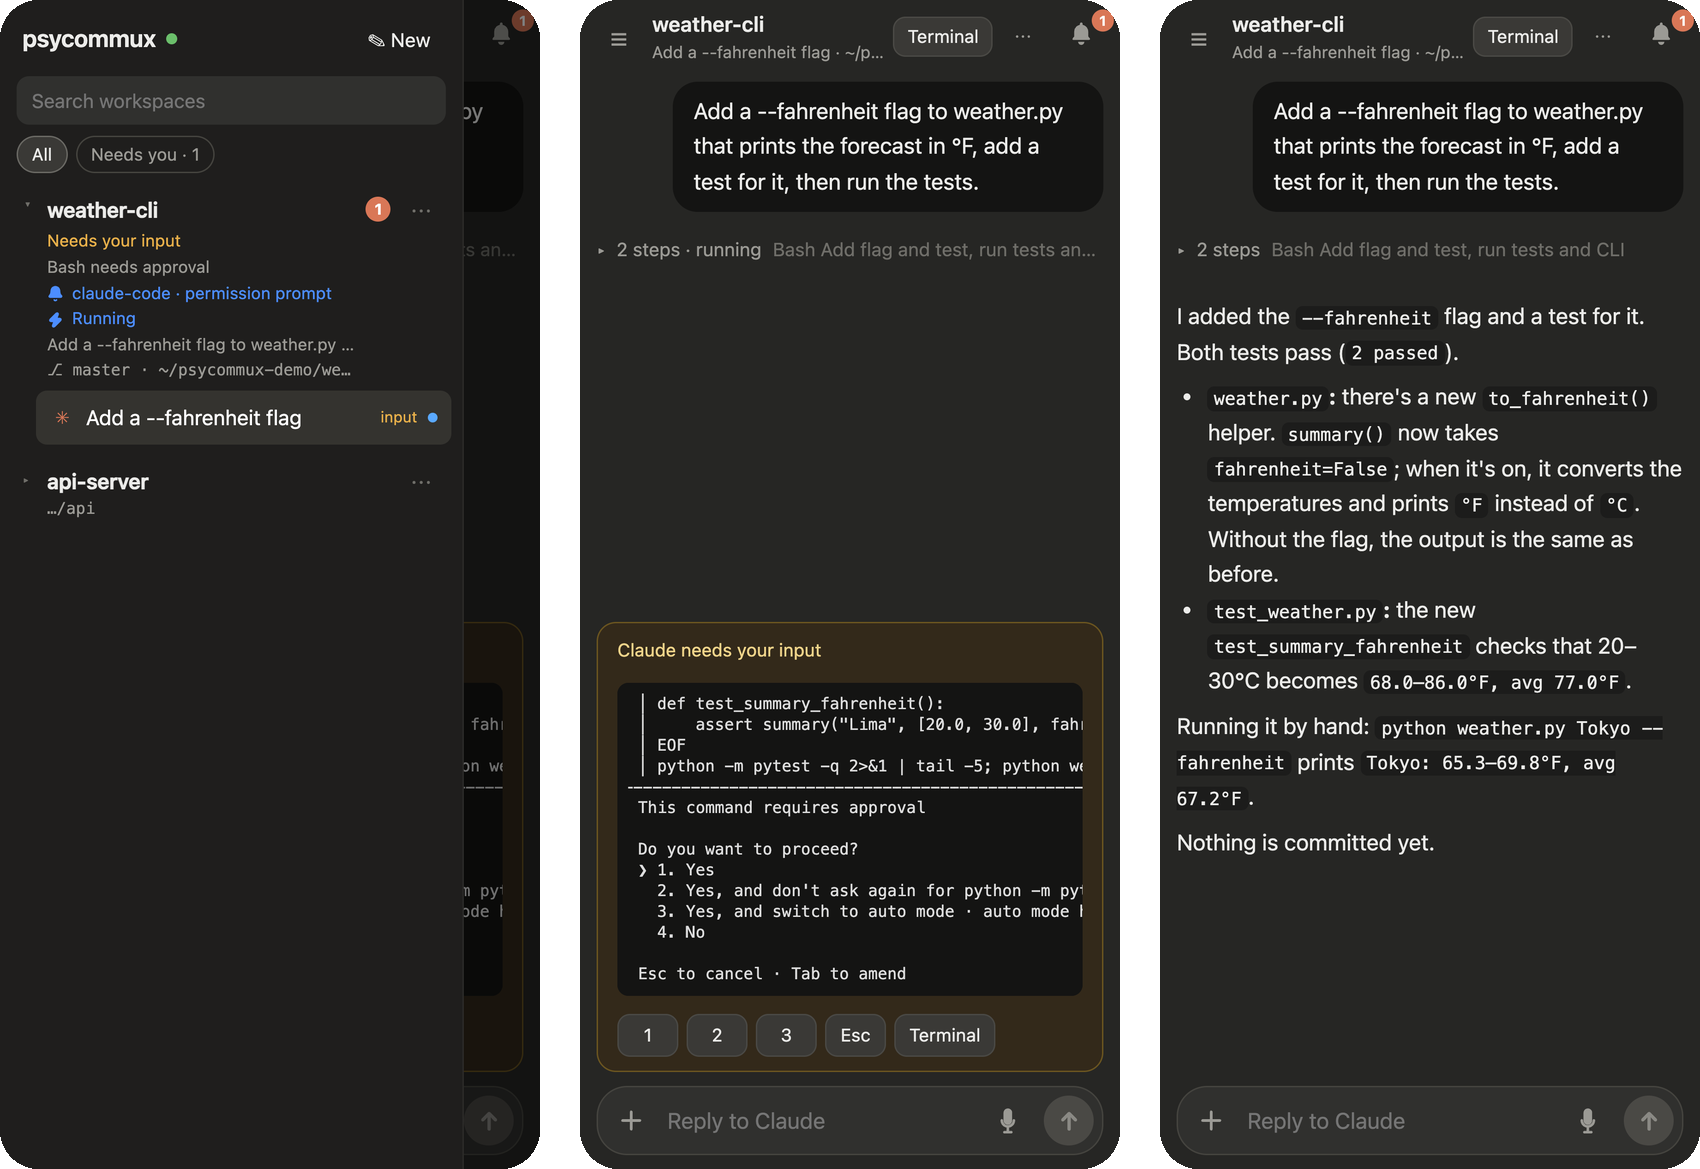
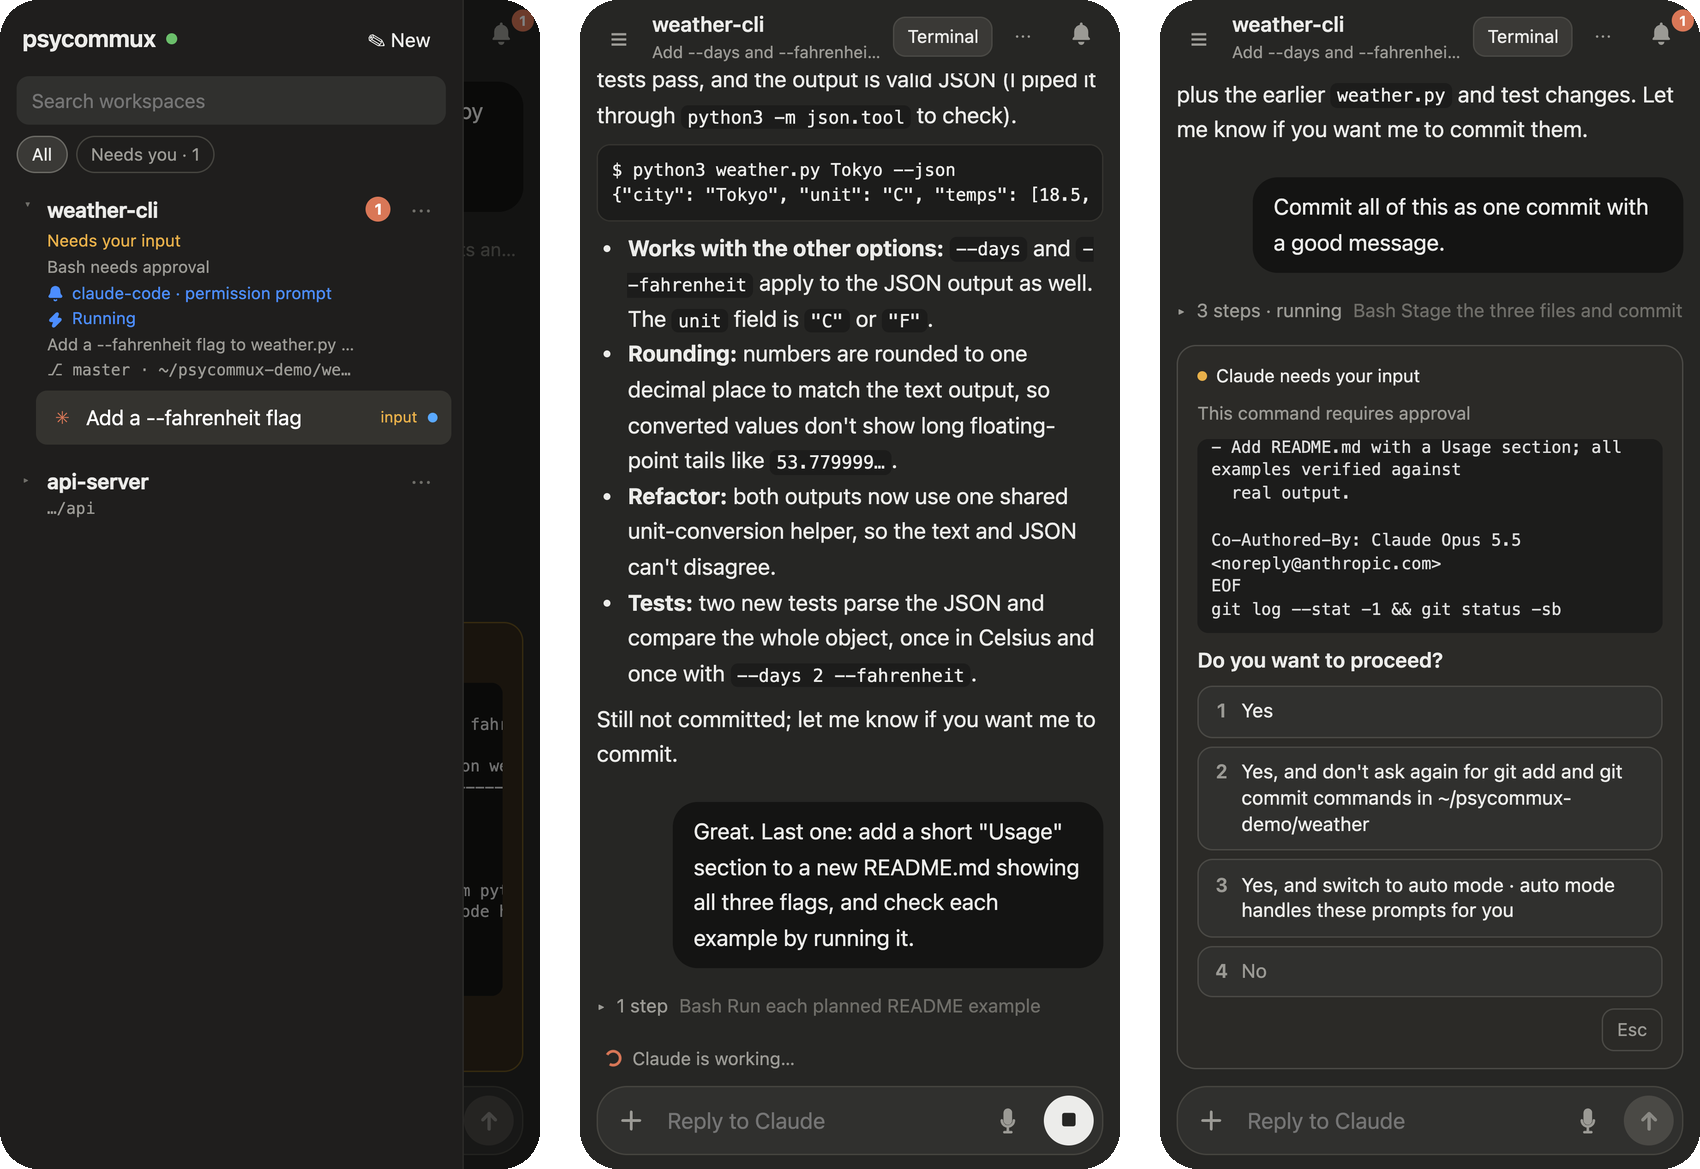
Show Claude's permission prompt as a question with labelled choices
The waiting card pasted the bottom of the terminal and offered bare 1, 2,
3 keys. Read the prompt off the screen instead: the title, the command or
edit it asks about (scrolled to its last lines), the question, and each
numbered choice as a button with its own words. Older boxed prompts parse
too; a screen that does not end in a numbered menu still shows as before.

diff --git a/static/app.js b/static/app.js
@@ -2124,19 +2124,9 @@ function setChatState(chat, value) {
     st.append(el("span", { className: "spin" }), el("span", { textContent: "Claude is working…" }), stop);
   } else if (value === "needs_input") {
     // Permission prompts are drawn in the terminal and reach the transcript only
-    // once answered, so show the bottom of the screen with number keys.
-    const keys = el("div", { className: "peek-keys" });
-    for (const n of ["1", "2", "3"]) {
-      const b = el("button", { textContent: n });
-      b.onclick = () => chat.surfaceId && api("/api/send", { surface_id: chat.surfaceId, text: n, enter: false }).then(() => refreshPeek(chat));
-      keys.append(b);
-    }
-    const escB = el("button", { textContent: "Esc" });
-    escB.onclick = () => chat.surfaceId && api("/api/key", { surface_id: chat.surfaceId, key: "escape" }).then(() => refreshPeek(chat));
-    const term = el("button", { textContent: "Terminal" });
-    term.onclick = () => { state.viewBySurface[chat.surfaceId] = "terminal"; save("cmuxViews", state.viewBySurface); renderMain(); };
-    keys.append(escB, term);
-    st.append(el("div", { className: "peek-head", textContent: "Claude needs your input" }), el("pre", { className: "peek", textContent: chat.peek }), keys);
+    // once answered, so read them off the screen.
+    st.append(el("div", { className: "qh", textContent: "Claude needs your input" }));
+    renderPrompt(chat);
     refreshPeek(chat);
   } else if (value === "ended") {
     // `claude --resume <id>` in the same terminal, from the session's folder.
@@ -2161,11 +2151,95 @@ async function refreshPeek(chat) {
   if (!chat.surfaceId) return;
   try {
     const r = await api("/api/peek", { surface_id: chat.surfaceId });
-    const lines = (r.text || "").replace(/\s+$/, "").split("\n");
-    chat.peek = lines.slice(-14).join("\n");
-    const pre = chat.status.querySelector(".peek");
-    if (pre) pre.textContent = chat.peek;
+    const text = (r.text || "").replace(/\s+$/, "");
+    if (text === chat.peek) return;
+    chat.peek = text;
+    if (chat.state === "needs_input") renderPrompt(chat);
   } catch (e) { /* keep the last one */ }
+}
+
+// Claude Code's terminal prompt, e.g.
+//   │ python -m pytest -q          <- what it wants to run or change
+//   ╌╌╌╌╌╌╌╌╌╌╌╌╌╌╌╌╌╌╌╌╌╌╌╌╌╌╌╌╌
+//    This command requires approval   <- title
+//    Do you want to proceed?          <- question
+//    ❯ 1. Yes
+//      2. Yes, and don't ask again for …
+//    Esc to cancel · Tab to amend
+// Returns null when the screen does not end in a numbered menu.
+function parsePrompt(text) {
+  const raw = text.split("\n").map((l) => l.replace(/\s+$/, ""));
+  // A │ bar marks a command drawn as a block; older versions also draw the whole
+  // prompt in a box, whose sides go and whose top and bottom act as rules.
+  const barred = raw.map((l) => /^\s*│/.test(l));
+  const lines = raw.map((l) => l.replace(/^\s*│ ?/, "").replace(/\s*│$/, ""));
+  const RULE = /^\s*(?:[─━╌┄-]{8,}|[╭╰].*)$/;
+  const OPT = /^\s*(?:[❯›>]\s*)?(\d+)\.\s+(.*)$/;
+  let last = -1;
+  for (let i = lines.length - 1; i >= 0; i--) if (OPT.test(lines[i])) { last = i; break; }
+  if (last < 0) return null;
+  let first = last;
+  while (first > 0 && (OPT.test(lines[first - 1]) || (/^\s{3,}\S/.test(lines[first - 1]) && !RULE.test(lines[first - 1])))) first--;
+  while (first <= last && !OPT.test(lines[first])) first++;
+  const options = [];
+  for (let i = first; i <= last; i++) {
+    const m = lines[i].match(OPT);
+    if (m) options.push({ key: m[1], label: m[2].trim() });
+    else if (options.length) options[options.length - 1].label += " " + lines[i].trim();
+  }
+  if (options.length < 2) return null;
+  // Text between the menu and the rule above it: the title and the question.
+  const head = [];
+  let i = first - 1;
+  for (; i >= 0 && !RULE.test(lines[i]); i--) if (lines[i].trim()) head.unshift(lines[i]);
+  if (!head.length) return null;
+  const question = head.pop().trim();
+  // Above the rule: what it wants to do, a │ block taken whole, else back to a blank line.
+  let context = [];
+  const block = i > 0 && barred[i - 1];
+  for (let j = i - 1; j >= 0 && context.length < 40 && !RULE.test(lines[j]); j--) {
+    if (block ? !barred[j] : context.length && !lines[j].trim()) break;
+    if (!context.length && !lines[j].trim()) continue;
+    context.unshift(lines[j]);
+  }
+  // In a box the rule is its top, so the command sits between the title and the question.
+  if (!context.length && head.length > 1) context = head.splice(1);
+  while (context.length && !context[0].trim()) context.shift();
+  const indent = Math.min(...context.filter((l) => l.trim()).map((l) => l.match(/^ */)[0].length));
+  return { title: head.map((l) => l.trim()).join(" "), question, options, context: context.map((l) => l.slice(indent)).join("\n") };
+}
+
+function renderPrompt(chat) {
+  const st = chat.status;
+  st.querySelectorAll(":scope > :not(.qh)").forEach((n) => n.remove());
+  const send = (text) => chat.surfaceId && api("/api/send", { surface_id: chat.surfaceId, text, enter: false }).then(() => refreshPeek(chat)).catch(failed);
+  const esc = () => chat.surfaceId && api("/api/key", { surface_id: chat.surfaceId, key: "escape" }).then(() => refreshPeek(chat)).catch(failed);
+  const term = () => { state.viewBySurface[chat.surfaceId] = "terminal"; save("cmuxViews", state.viewBySurface); renderMain(); };
+  const p = parsePrompt(chat.peek || "");
+  const foot = el("div", { className: "pfoot" }, el("button", { textContent: "Esc", title: "Cancel", onclick: esc }));
+  if (!p) {
+    foot.append(el("button", { textContent: "Terminal", onclick: term }));
+    // Unknown screen: show its bottom and the usual keys.
+    const keys = ["1", "2", "3"].map((n) => el("button", { textContent: n, onclick: () => send(n) }));
+    foot.prepend(...keys);
+    st.append(el("pre", { className: "peek", textContent: (chat.peek || "").split("\n").slice(-14).join("\n") }), foot);
+    return;
+  }
+  if (p.title) st.append(el("div", { className: "ptitle", textContent: p.title }));
+  if (p.context) {
+    // The command's last lines are what runs; long ones scroll from there.
+    const ctx = el("pre", { className: "pctx", textContent: p.context });
+    st.append(ctx);
+    requestAnimationFrame(() => { ctx.scrollTop = ctx.scrollHeight; });
+  }
+  st.append(el("div", { className: "pq", textContent: p.question }));
+  const opts = el("div", { className: "qo" });
+  for (const o of p.options) {
+    const b = el("button", { onclick: () => send(o.key) }, el("b", { textContent: o.key }), el("span", { textContent: o.label }));
+    if (/^no\b/i.test(o.label)) b.className = "no";
+    opts.append(b);
+  }
+  st.append(opts, foot);
 }
 
 function answer(chat, index) {

diff --git a/static/app.css b/static/app.css
@@ -247,9 +247,20 @@ pre.diff .add { color: #7ee787; } pre.diff .del { color: #ff7b72; }
 .chat-status:empty { display: none; }
 .chat-status.working, .chat-status.ended, .chat-status.error { padding: 4px 18px; }
 .chat-status.working button { display: none; }
-.chat-status.needs_input { flex-direction: column; align-items: stretch; padding: 10px 14px; margin-bottom: 4px; background: #33291a; border: 1px solid #6b5520; border-radius: 14px; color: #f0d48a; width: calc(100% - 24px); }
-.peek { margin: 6px 0; max-height: 36vh; overflow: auto; font: 11.5px/1.3 ui-monospace, Menlo, monospace; background: #141413; color: #ddd; padding: 8px; border-radius: 8px; white-space: pre; }
-.peek-keys { display: flex; gap: 6px; flex-wrap: wrap; } .peek-keys button { min-width: 44px; }
+.chat-status.needs_input { flex-direction: column; align-items: stretch; gap: 8px; padding: 12px 14px; margin-bottom: 6px; background: #2b2a27; border: 1px solid #4a4945; border-radius: 14px; color: var(--fg); width: calc(100% - 24px); max-height: 62vh; overflow: auto; }
+.chat-status.needs_input .qh { display: flex; align-items: center; gap: .5em; }
+.chat-status.needs_input .qh::before { content: ""; width: 7px; height: 7px; border-radius: 50%; background: var(--warn); }
+.ptitle { font-size: 13px; color: var(--mute); }
+.pctx { margin: 0; max-height: 22vh; overflow: auto; font: 12px/1.4 ui-monospace, Menlo, monospace; background: #1c1c1b; color: #ddd; padding: 8px 10px; border-radius: 8px; white-space: pre-wrap; overflow-wrap: anywhere; }
+.pq { font-size: 15px; font-weight: 600; }
+.chat-status .qo { display: flex; flex-direction: column; gap: 6px; }
+.chat-status .qo button { display: flex; align-items: baseline; gap: .7em; width: 100%; text-align: left; padding: .6em .85em; border-radius: 11px; background: var(--panel); font-size: 14px; line-height: 1.35; color: var(--fg); }
+.chat-status .qo button b { flex: none; color: var(--mute); font-weight: 600; font-variant-numeric: tabular-nums; }
+.chat-status .qo button span { font-size: 14px; color: var(--fg); }
+.chat-status .qo button.no span { color: var(--mute); }
+.pfoot { display: flex; gap: 6px; flex-wrap: wrap; justify-content: flex-end; }
+.pfoot button { min-width: 44px; font-size: 13px; color: var(--mute); background: transparent; border: 1px solid #4a4945; }
+.peek { margin: 0; max-height: 36vh; overflow: auto; font: 11.5px/1.3 ui-monospace, Menlo, monospace; background: #141413; color: #ddd; padding: 8px; border-radius: 8px; white-space: pre; }
 .spin { width: 12px; height: 12px; border-radius: 50%; border: 2px solid var(--acc); border-right-color: transparent; animation: spin .8s linear infinite; flex: none; }
 @keyframes spin { to { transform: rotate(360deg); } }
 

diff --git a/README.md b/README.md
@@ -7,12 +7,12 @@ works like the Claude app, with cmux's workspaces as the organizing layer.
 The name comes from Gundam's psycommu, the system a Newtype uses to steer a
 swarm of remote funnels: here, one phone steering many coding agents.
 
-![The workspace drawer, a Claude Code session waiting for approval, and the same session after it finished](docs/screenshots.png)
+![The workspace drawer, a Claude Code session at work, and a session waiting for approval](docs/screenshots.png)
 
 <details>
-<summary>A terminal and a browser panel in reader mode</summary>
+<summary>A finished Claude reply, a terminal, and a browser panel in reader mode</summary>
 
-![A terminal running a dev server, and a documentation page in reader mode](docs/screenshots-more.png)
+![A Claude Code session after it finished, a terminal running a dev server, and a documentation page in reader mode](docs/screenshots-more.png)
 
 </details>
 
